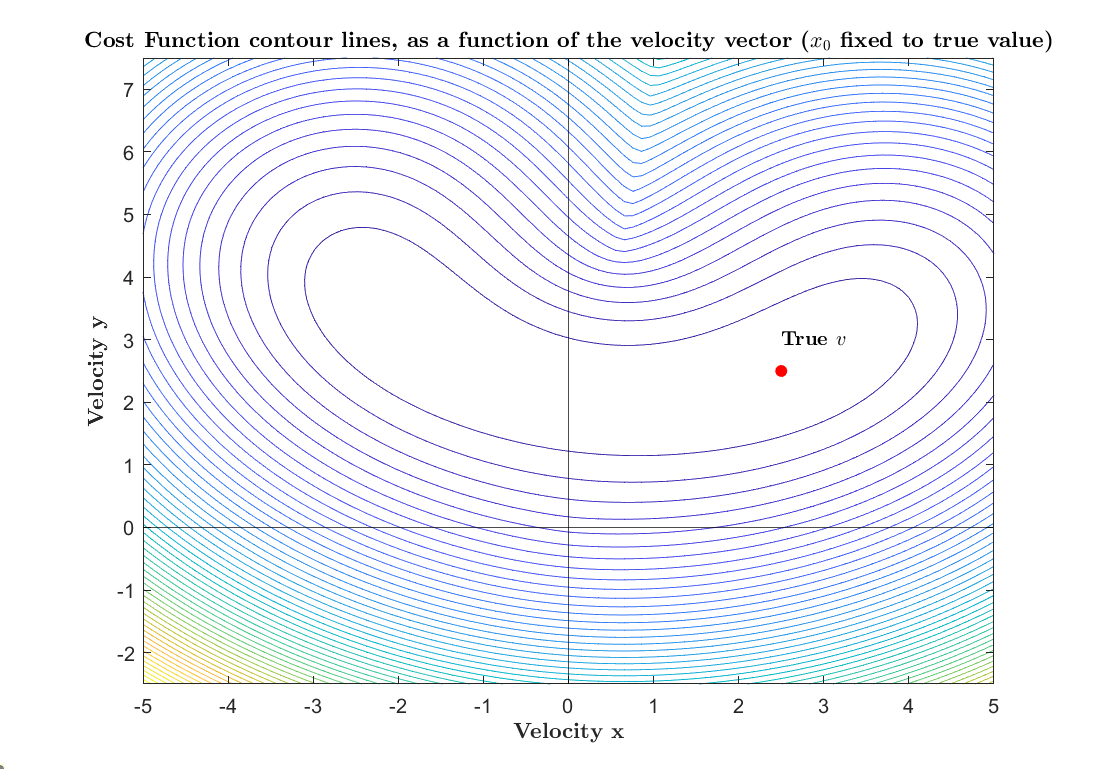
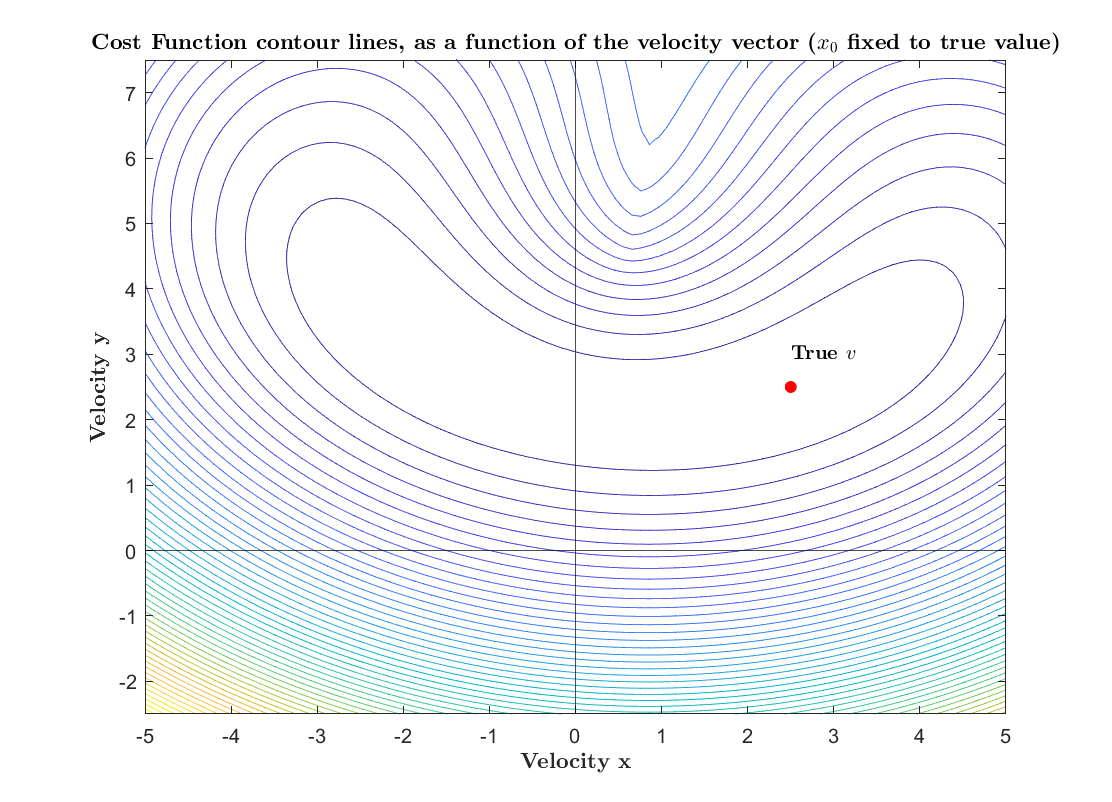
Scripts terminados

diff --git a/Task16.m b/Task16.m
@@ -1,49 +1,43 @@
 %% Task 16 script
 clear
 clc
-load('mh370.mat', 'xgt', 'vgt', 'tref', 'a', 'r', 'u', 'v', 'rr');
+load('measurements.mat', 'xgt', 'vgt', 'tref', 'a', 'r', 'u', 'v', 'rr'); % 'mh370.mat' can also be used instead of 'measurements.mat'
 %% Problem formulation
-% Set initial values for vel and x0
 
-x0=(xgt(1,:))';
-niu=1;
-E=1e-6;
-v_true=v(1,:);
-k=1; %k is inicialized at 1, because matlab arrays' first index is 1
-vel(:,k) = [-3;3];
-lambda(k)=1;
-validation=0;
-rejection=0;
+vel(:,1) = [3;3];   % Initial v prediction
 
+x0=(xgt(1,:))';     % Set initial values for x0
+niu=1;              % Defining cost function's hyperparameter
+E=1e-6;             % Stop condition - for cost function gradient's norm
+v_true=v(1,:);      % True velocity value
+k=1;                % k is inicialized at 1, because matlab arrays' first index is 1
+lambda(k)=1;        % Initial lambda - penalizes deviations of v_hat(k+1) from v(k) in the LM Method
 
-while 1
-    J(:,:,k)= residual_Jacbobian(vel(:,k), a, x0, tref, niu);
-    residual(:,k)=residual_func(vel(:,k), a, x0, tref, r, rr, niu);
-    fval(k)=cost_function(vel(:,k),a, x0 ,tref, r, rr, niu);
+while 1 %while true in matlab
+    J(:,:,k)= residual_Jacbobian(vel(:,k), a, x0, tref, niu);       %residual for vel(k)
+    residual(:,k)=residual_func(vel(:,k), a, x0, tref, r, rr, niu); %jacobian for vel(K)
+    fval(k)=cost_function(vel(:,k),a, x0 ,tref, r, rr, niu); %cost function's value forvel(k)
     g(k,:)= (J(:,:,k))'*residual(:,k); %gradient of f(v)
-    g_norm(k)=norm(g(k,:));
+    g_norm(k)=norm(g(k,:));    
 
     if g_norm(k)<E | k>1500 %function converged to local minima - output results
-        output_func(fval, g_norm, vel, v_true)
+        output_func(fval, g_norm, vel, v_true, k-1, niu)
         break
     end
    
-    v_hat(:,k)= argmin_function(lambda(k), vel(:,k),residual(:,k),J(:,:,k),g(k,:));
+    v_hat(:,k)= argmin_function(lambda(k), vel(:,k),residual(:,k),J(:,:,k),g(k,:)); %standard least squares problem 
     
     if cost_function(v_hat(:,k),a, x0 ,tref, r, rr, niu)<fval(k)%valid step
         vel(:,k+1)=v_hat(:,k);
         lambda(k+1)=0.7*lambda(k) ;
-        validation=validation+1;
     else %null step
         vel(:,k+1)=vel(:,k);
         lambda(k+1)=2*lambda(k);
-        rejection=rejection+1;
     end
     k=k+1;
-    end
-
+end
+    
 %% Functions to support optimization
-
 function residual = residual_func(v, a, x0, tref, r, rr, niu)
     for i = 1:length(tref)
         aux=x0+v*tref(i)-a';
@@ -52,14 +46,11 @@ function residual = residual_func(v, a, x0, tref, r, rr, niu)
     end
     residual=[rR,rRR]';
 end
-
-
 function J= residual_Jacbobian(v, a, x0, tref, niu)
     for i = 1:length(tref)
         %for range
         aux=x0+v*tref(i)-a';
         jR(i,:) = ((aux/norm(aux)) *tref(i))';
-        
         %for range rate
         P = v'*aux;
         Q = norm(aux);
@@ -69,7 +60,6 @@ function J= residual_Jacbobian(v, a, x0, tref, niu)
     end
 J=[jR;jRR];
 end
-
 function v_minima= argmin_function(lambda, vel, residual,J,g)
     T=size(J,1)/2;
     %aqui não tamos a transpor a jacobiana e na teoria deviamos
@@ -82,21 +72,20 @@ function v_minima= argmin_function(lambda, vel, residual,J,g)
     A=[ grad_f1 ; grad_f2; sqrt(lambda)*eye(2)]; %matrix identidade 2x2 porque multiplica por vel (2x1)
     b=[b1 ;b2; sqrt(lambda)*vel];
     v_minima = lsqlin(A, b);
-
 end
 
-function output_func(cost_fun, gradient, velocity, v_true)
+function output_func(cost_fun, gradient, velocity, v_true, k, niu)
     figure      
     subplot(2,1,1)
     title('\textbf{Optimaztion parameters - Levenberg-Marquard method}', 'Interpreter','latex')
     yyaxis left
     plot(gradient)
-    ylabel("\textbf{Norm of the residuals' gradient}", 'Interpreter','latex')
+    ylabel("\textbf{$\| \nabla f(v_k) \|$}", 'Interpreter','latex')
     %ylim([0 100])
     yyaxis right
     plot(cost_fun)
-    ylabel("\textbf{Cost function}", 'Interpreter','latex')
-    legend("\textbf{Norm of the residual's gradient $\| \nabla f(v_k) \|$}",'\textbf{Cost function: $\sum_{t \in T} (\hat{r}(t) - r_t)^2 + \nu(\hat{s}(t) - s_t)^2$}', 'Interpreter','latex')
+    ylabel("\textbf{$f(v)$}", 'Interpreter','latex')
+    legend("\textbf{Norm of the cost-function's gradient $\| \nabla f(v_k) \|$}",'\textbf{Cost-function: $f(v)$}', 'Interpreter','latex')
     xlabel('\textbf{Iterations}', 'Interpreter','latex')
     %ylim([0 100])
     subplot(2,1,2)
@@ -110,12 +99,13 @@ function output_func(cost_fun, gradient, velocity, v_true)
     title('Velocity', 'Interpreter','latex');
     hold off
     
-    print
-
+   fprintf('Final gradient norm: %e\n', gradient(end))
+   fprintf('Final cost-function value (fval): %e\n', cost_fun(end))
+   fprintf('Number of iterations: %d\n', k)
+   %fprintf('Hyperparameter niu %d\n', niu)
+   fprintf('Predicted velocity: [ %f , %f ]\n', velocity(1,end),velocity(2,end))
 end
 function F = cost_function(v, a, x0 ,tref, r, rr, niu)
-  
-residual=residual_func(v, a, x0, tref, r, rr, niu);
-F= 0.5*(norm(residual))^2;    
-
+    residual=residual_func(v, a, x0, tref, r, rr, niu);
+    F= 0.5*(norm(residual))^2;    
 end

diff --git a/Task14.m b/Task14.m
@@ -1,21 +1,21 @@
 %% Task 14 script
-clc
-load('measurements.mat', 'xgt', 'vgt', 'tref', 'a', 'r', 'u', 'v', 'rr');
+clc, clear
+load('measurements.mat', 'xgt', 'vgt', 'tref', 'a', 'r', 'u', 'v', 'rr'); % 'mh370.mat' can also be used instead of 'measurements.mat'
 
 %% Problem formulation
-figure
-%still in progress - a ser feito por Alex
-%subplot(2,1,1); 
-x0=(xgt(1,:))';
+x0=(xgt(1,:))';         % fixed value for x_0
 v_x = linspace(-5,5);
 v_y = linspace(-2.5,7.5);
 [X,Y] = meshgrid(v_x,v_y);
-
+niu=1;
 for i=1:length(v_y)
     for j=1:length(v_x)
-        vvalues(i,j) = cost_function([v_x(j);v_y(i)], a, x0,tref, r, rr);
+        vvalues(i,j) = cost_function([v_x(j);v_y(i)], a, x0,tref, r, rr, niu); %cost function's value for each possible velocity vector
      end
 end
+
+%% Plots
+figure
 contour(v_x,v_y, vvalues,50, 'ShowText','off');
 hold on 
 xline(0, 'Color', 'k', 'LineWidth', 0.5);
@@ -26,58 +26,27 @@ ylabel('\textbf{Velocity y}', 'Interpreter','latex') ;
 scatter3(v(1,1),v(1,2),0,'r','filled')
 text(v(1,1),v(1,2)+0.5,'\textbf{True $v$}','Interpreter','latex')
 
-% subplot(2,1,2); 
-% x0_x = linspace(-25,25);
-% x0_y = linspace(-25,25);
-% [X,Y] = meshgrid(x0_x,x0_y);
-% 
-% for i=1:length(x0_y)
-%     for j=1:length(x0_x)
-%         xvalues(i,j) = cost_function(v(1,:), a, [x0_x(j);x0_y(i)],tref, r, rr);
-%      end
-% end
-% contour(x0_x,x0_y, xvalues,40, 'ShowText','off');
-% hold on 
-% xline(0, 'Color', 'k', 'LineWidth', 0.5);
-% yline(0, 'Color', 'k', 'LineWidth', 0.5);
-% title('\textbf{Cost Function contour lines, as a function of the inicial position $x_0$ (fixed to true value of the velocity)}', 'Interpreter','latex')
-% xlabel('\textbf{Inicial position x-axis}','Interpreter','latex');
-% ylabel('\textbf{Inicial position y-axis}', 'Interpreter','latex') ;
-% ylim([-25 25])
-% xlim([-25 25])
-% 
-% scatter3(x0(1),x0(2),0,'r','filled')
-% text(x0(1),x0(2)+1,'\textbf{True $x_0$}','Interpreter','latex')
 
 figure %3d plot
-s=surf(v_x,v_y, vvalues)
+s=surf(v_x,v_y, vvalues);
 s.EdgeColor = 'none';
 hold on
-scatter3(v(1,1),v(1,2),cost_function([v(1,1);v(1,2)], a, x0,tref, r, rr),'r','filled')
+scatter3(v(1,1),v(1,2),cost_function([v(1,1);v(1,2)], a, x0,tref, r, rr, niu),'r','filled')
 legend('\textbf{Cost Function, as a function of the 2D velocity vector ($x_0$ fixed to true value)}','True $v$', 'Interpreter','latex')
 hold off
 
-% figure %3d plot
-% s2=surf(x0_x,x0_y, xvalues)
-% s2.EdgeColor = 'none';
-% legend('\textbf{Cost Function contour lines, as a function of the inicial position $x_0$ (fixed to true value of the velocity)}', 'Interpreter','latex')
-% hold on
-% scatter3(x0(1),x0(2),0,'r','filled')
-% text(x0(1),x0(2)+1,'\textbf{True $x_0$}','Interpreter','latex')
-% hold off
-
-function F = cost_function(v, a, x0 ,tref, r, rr)
-    delta=tref(2) - tref(1);
-    F=0;
-    derivative_term=0;
-    for i = 1:length(tref) 
-        if i == 1
-            derivative_term = ( norm(x0+v*tref(i+1)-a') - norm(x0+v*tref(i)-a') )/(delta);
-        elseif i == length(tref) 
-            derivative_term = ( norm(x0+v*tref(i)-a') - norm(x0+v*tref(i-1)-a') )/(delta);
-        else
-            derivative_term = ( norm(x0+v*tref(i+1)-a') - norm(x0+v*tref(i-1)-a') )/(2*delta);
-        end
-    F = F + (norm(x0+v*tref(i)-a') - r(i)).^2 + norm(v)*((derivative_term - rr(i)).^2);
+%% Functions to support problem formulation
+function residual = residual_func(v, a, x0, tref, r, rr, niu)
+    for i = 1:length(tref)
+        aux=x0+v*tref(i)-a';
+        rR(i)=norm(aux) - r(i);
+        rRR(i)= sqrt(niu)*( (v'*(aux)/(norm(aux))) - rr(i));
     end
+    residual=[rR,rRR]';
+end
+function F = cost_function(v, a, x0 ,tref, r, rr, niu)
+  
+    residual=residual_func(v, a, x0, tref, r, rr, niu);
+    F= 0.5*(norm(residual))^2;    
+
 end
